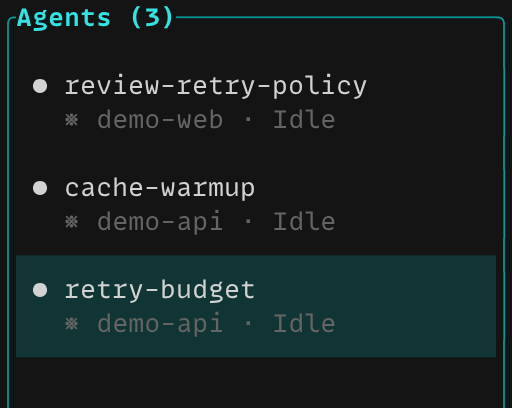
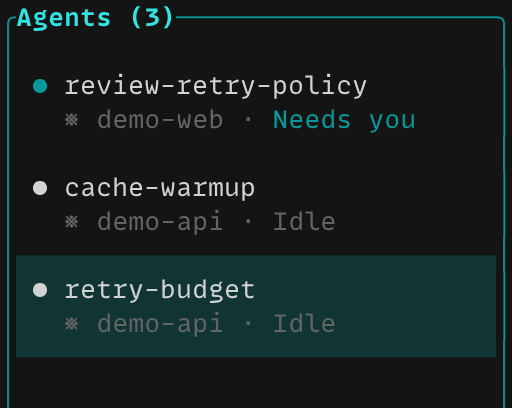
Put the needs-you flag back in the terminal UI sidebar picture
The committed screenshot showed three idle agents and no flag at all, while
the page it illustrates promises one agent carrying a cyan dot and the words
Needs you. A guard caught it: the capture is refused now unless the words are
on the screen.

The cause is that the flag clears the moment you look at an agent's pane, and
in this front end the selected agent's pane is always on screen. Creating the
agent selects it and walking the selection back to a quiet row passes over it,
so a bell rung at spawn is cleared by the journey that arranged it. The fake
provider gains a fixture that rings late, the journey moves the selection
first and then waits for the flag itself rather than for a guessed number of
seconds, and the picture now says what its caption says.

Changed region(s): [[0.5312, 0.2647, 0.6875, 0.3235], [0.7188, 0.2647, 0.8125, 0.3235], [0.0625, 0.1765, 0.0938, 0.2353]]

diff --git a/tools/preview-env/screens/scenes/tui-attention-sidebar.js b/tools/preview-env/screens/scenes/tui-attention-sidebar.js
@@ -1,17 +1,23 @@
-// One agent waiting on you among two that are idle. The flag clears the moment
-// you look at an agent's pane, so the one that has it is created last and never
-// focused, and the selection is walked back to a quiet row.
-module.exports = async ({ createAgent, selectAgent, setFixture, sleep }) => {
+// One agent waiting on you among two that are idle.
+//
+// The flag clears the moment you look at an agent's pane, and in this front end
+// the selected agent's pane is always on screen: creating the agent selects it,
+// and walking the selection back to a quiet row passes over it. A bell rung at
+// spawn is therefore cleared by the journey that arranged it, which is how this
+// picture came to show three idle agents and no flag at all. So the bell is rung
+// LATE, after the selection has settled somewhere else, and the wait below is
+// for the flag itself rather than for a guessed number of seconds.
+module.exports = async ({ createAgent, selectAgent, setFixture, sleep, waitFor }) => {
   await createAgent(0, "retry-budget")
   await createAgent(0, "cache-warmup")
   // The fake provider reads its fixture from the global environment, so the next
   // agent comes up on the one that rings the bell.
-  await setFixture("attention")
+  await setFixture("attention-delayed")
   await createAgent(1, "review-retry-policy")
-  await sleep(2000)
   // Picked by name, not by counting rows: needs-you floats to the top and the
   // order within a group is the sidebar's business rather than a journey's.
   await selectAgent("retry-budget")
+  await waitFor("Needs you", 40000)
   await sleep(1200)
 }
 
